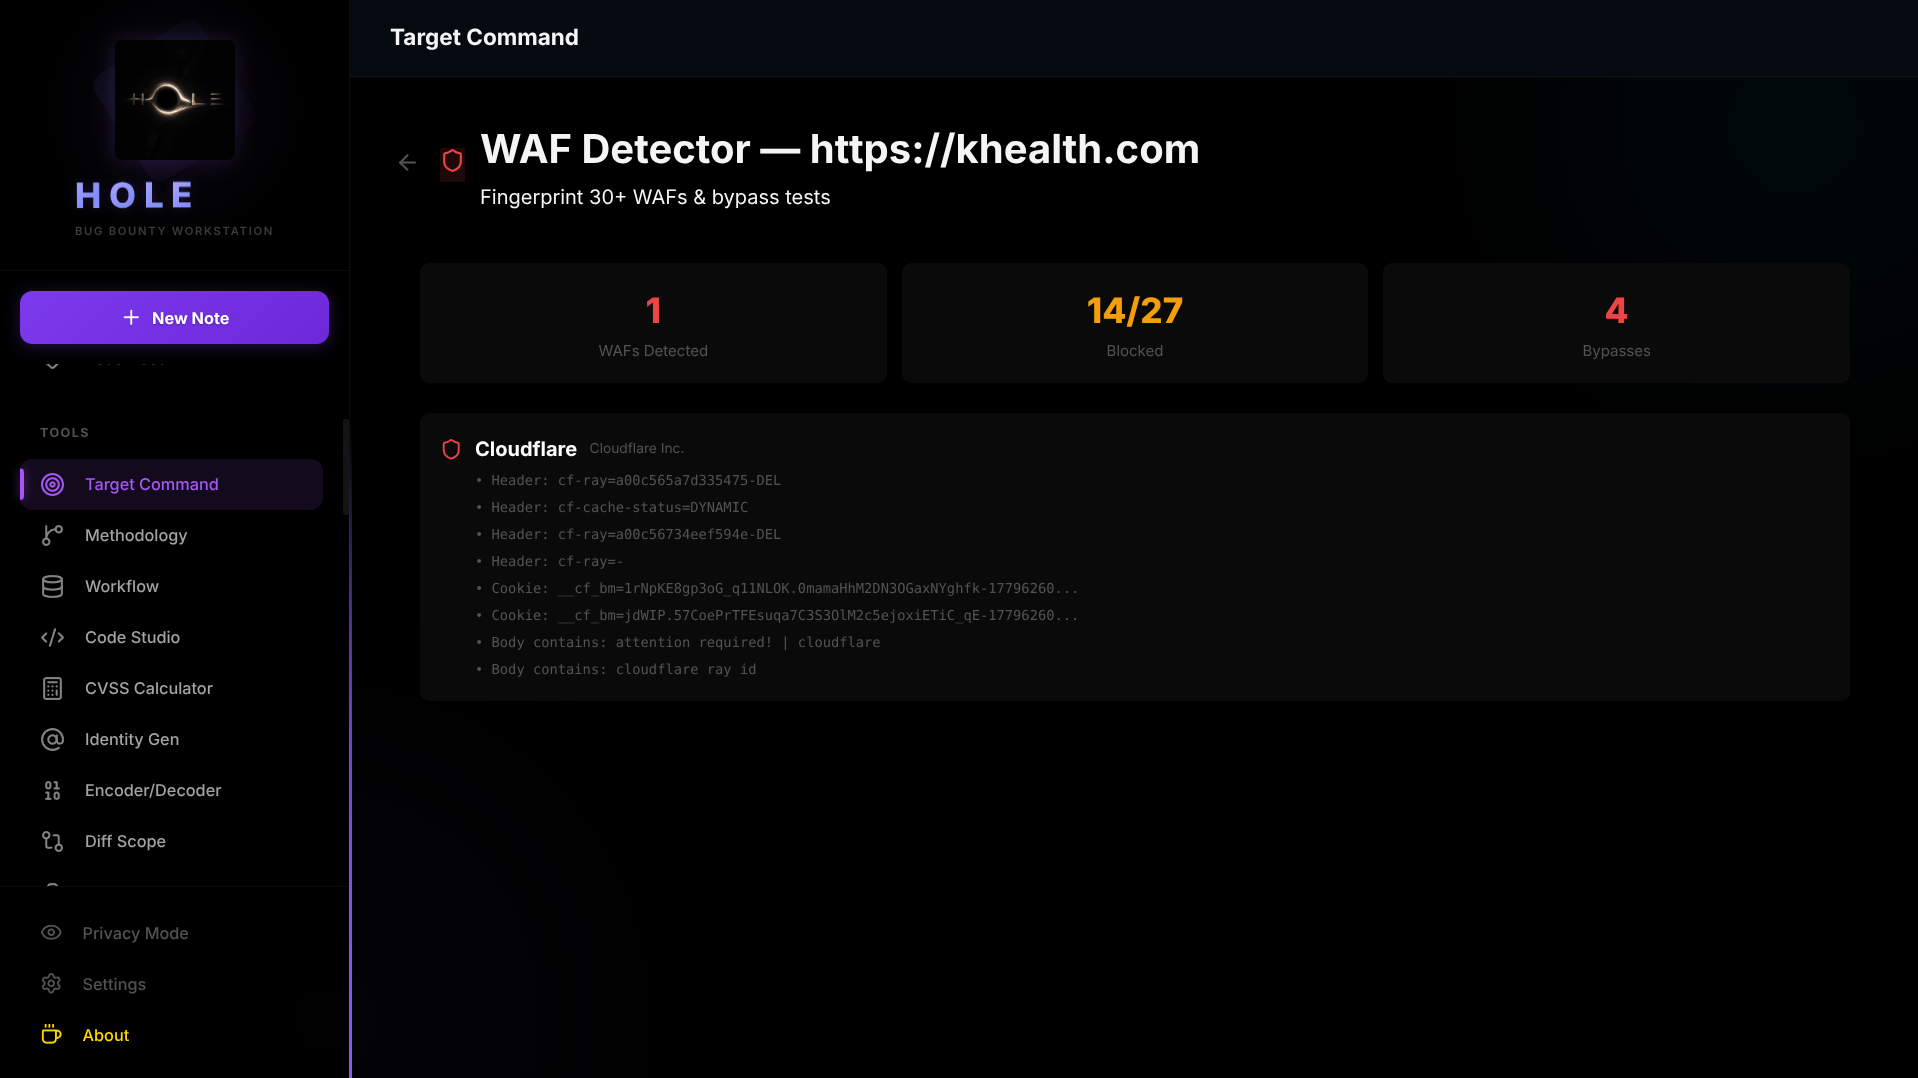
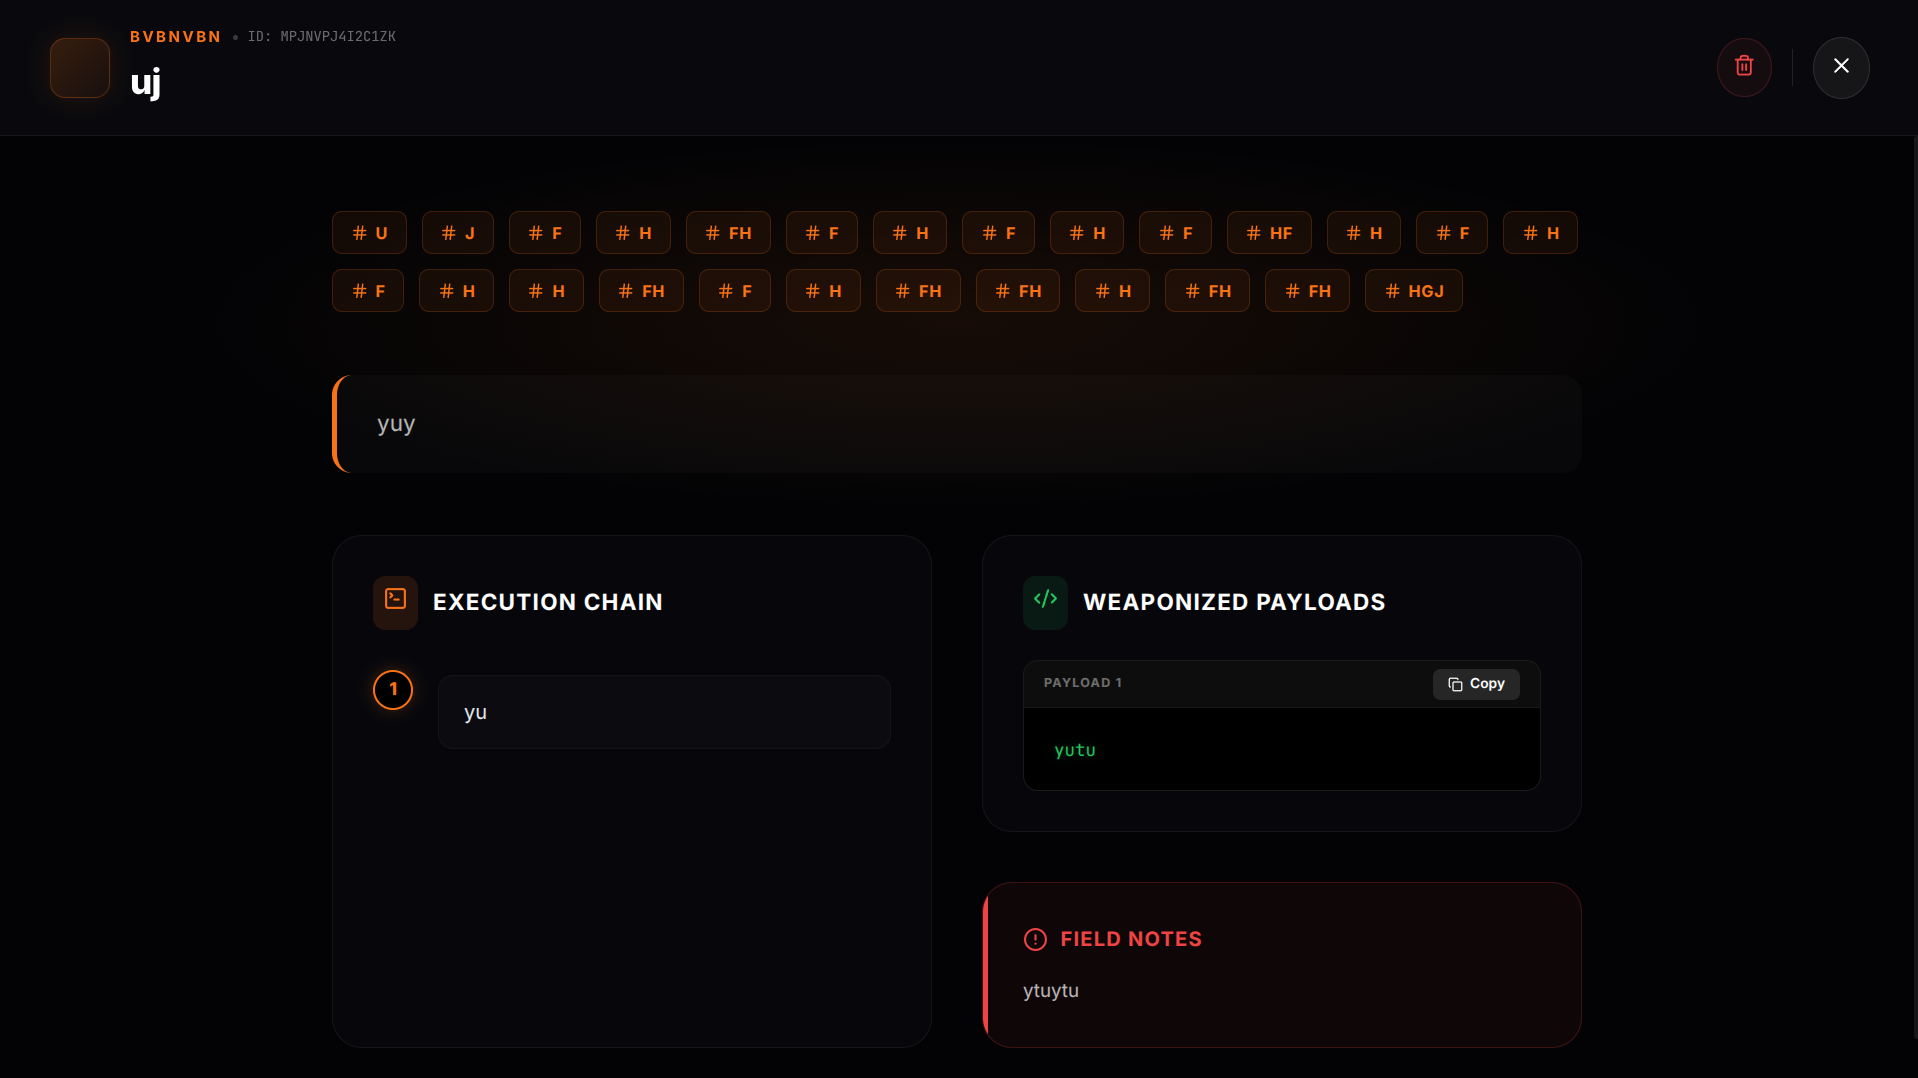
Update technique vault screenshots in PRO features

diff --git a/README.md b/README.md
@@ -114,6 +114,8 @@ To purchase your lifetime license and receive the fully compiled, secure desktop
   <img src="screenshots/pro_features/pro_22.png" width="90%" alt="PRO Feature 22" />
   <br/><br/>
   <img src="screenshots/pro_features/pro_23.png" width="90%" alt="PRO Feature 23" />
+  <br/><br/>
+  <img src="screenshots/pro_features/pro_24.png" width="90%" alt="PRO Feature 24" />
 </div>
 
 <br/>